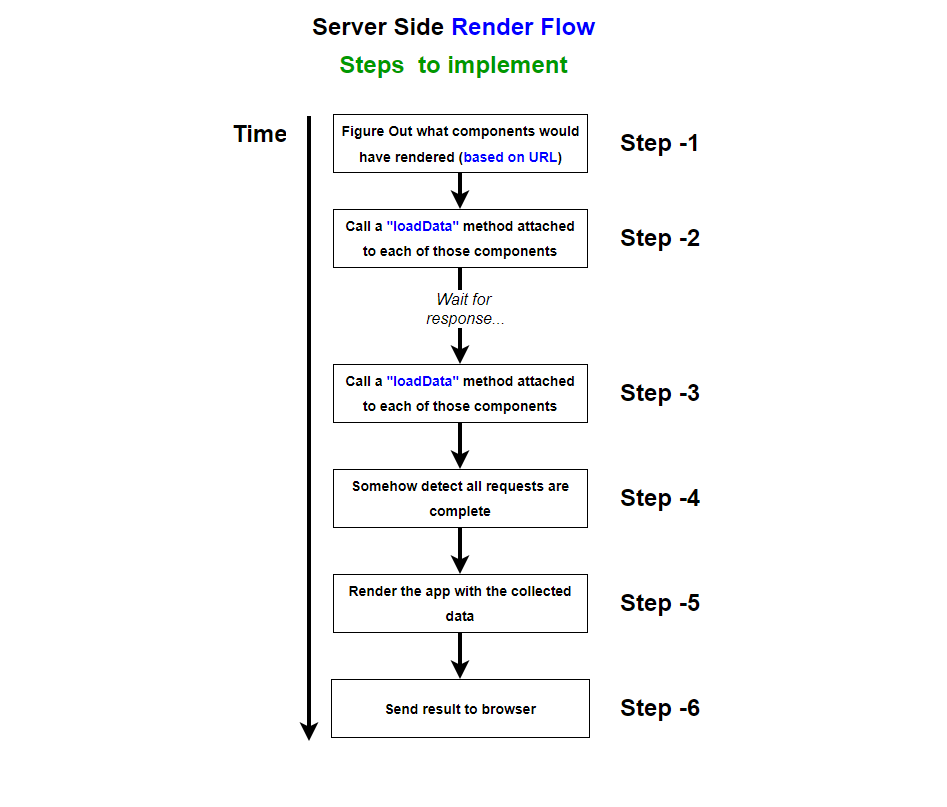
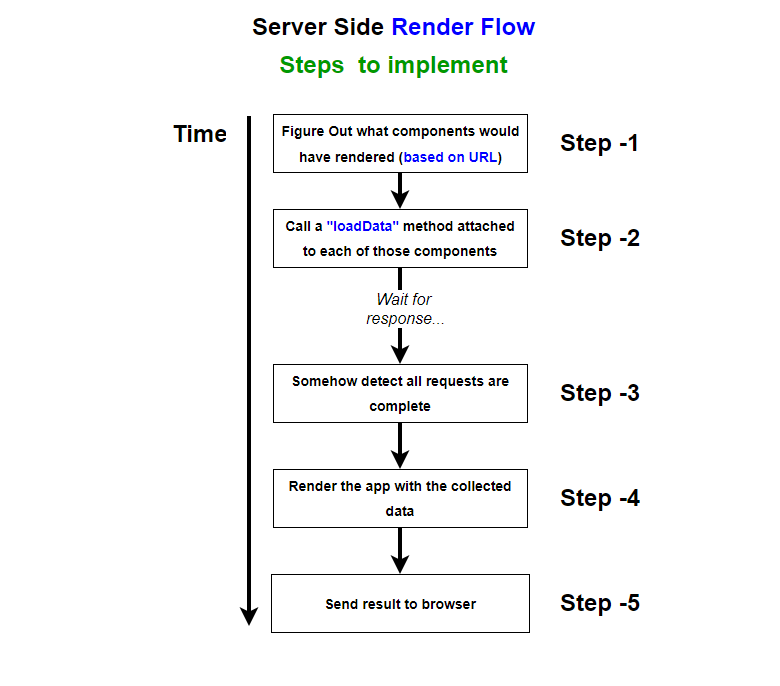
LoadData-With-Promises

diff --git a/Server_Side_Render_React/README.md b/Server_Side_Render_React/README.md
@@ -550,7 +550,23 @@ Result Expected:
        component: [Function] },
     match: { path: '/users', url: '/users', isExact: true, params: {} } } ]
 UserList says: I'm trying to load some data
+```
+### Index.js with Mapping matchRoutes
+```
+index.js
+```
+```js
+ // Mapping matchRoutes
+  //We Are Doing some Destructuring Here ({route})
+  const promises = matchRoutes(Routes, req.path).map(({ route }) => {
+    return route.loadData ? route.loadData(store) : null;
+  });
+```
+## Solving the Step-3 - `Completion` of all requests
+![alt text](Draws/Reducers/Server-Side-Render-Flow-Step-3.PNG "Solving Step-3")
 
+### Implementing `Promises`
+![alt text](Draws/Reducers/LoadData-With-Promises.PNG "LoadData With Promises")
 
 
 #
